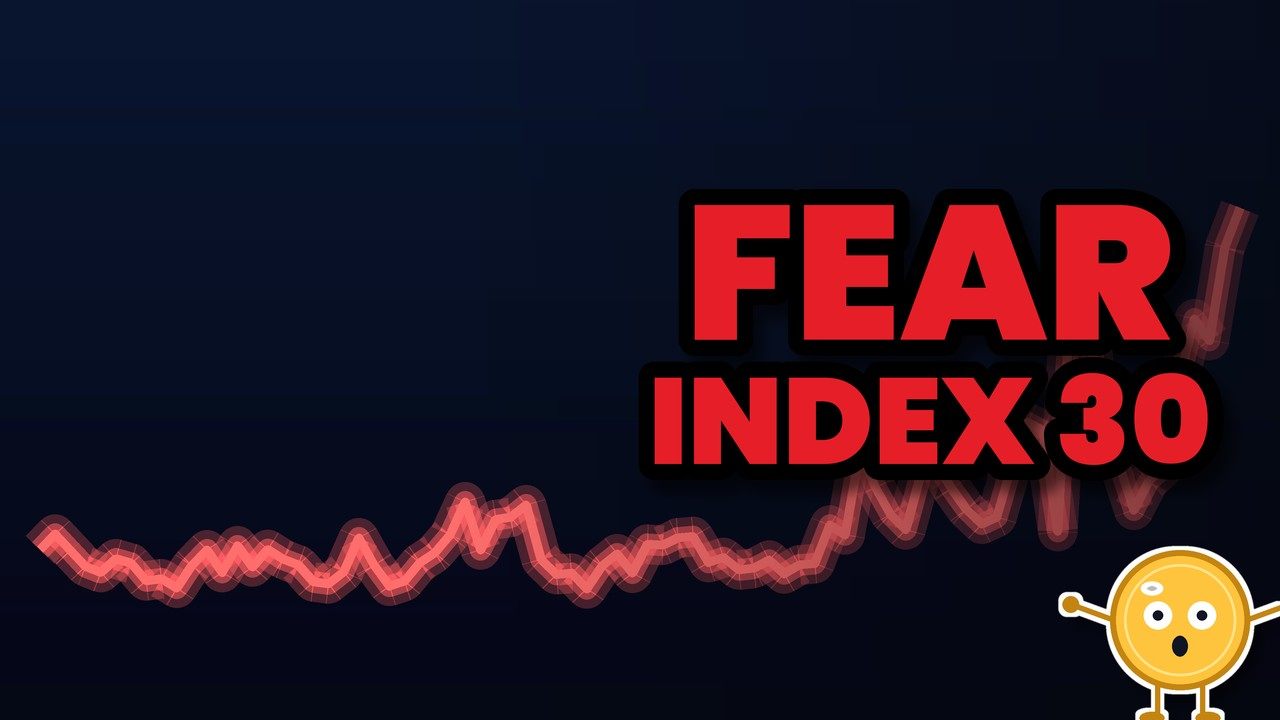
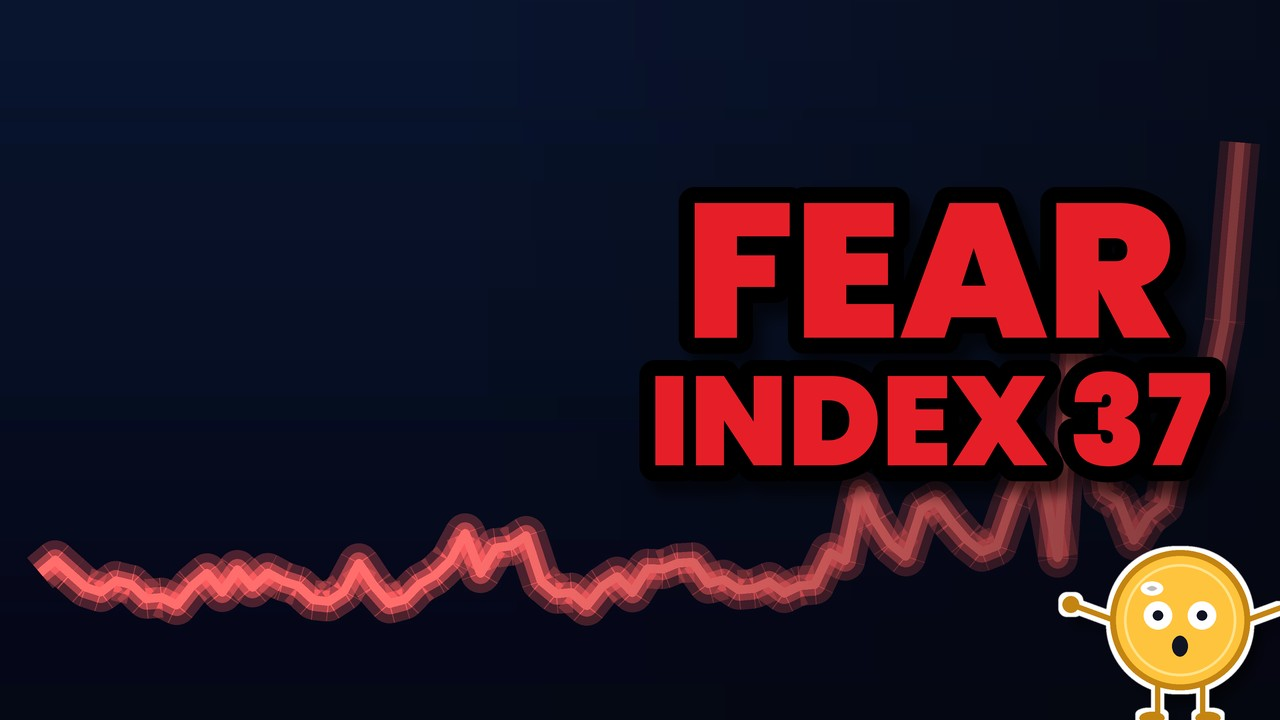
ep11: final close numbers (VIX 37.37, S&P in correction)
Claude-Session: https://claude.ai/code/session_01KPBsdzhy6yaFbGMrWeQjjn

diff --git a/channel/ep11_vix.py b/channel/ep11_vix.py
@@ -126,7 +126,7 @@ INFL = (CPI.iloc[-1] / CPI.iloc[-13] - 1) * 100
 SRC = 'Yahoo Finance: Cboe Volatility Index (^VIX) and S&P 500 daily closes'
 TICK = (f'VIX  {V_NOW:.2f}  {(V_NOW / V_PREV - 1) * 100:+.1f}%     S&P 500  {SP_NOW:,.2f}  {SP_DAY:+.2f}%     '
         f'NASDAQ  {NDQ.iloc[-1]:,.2f}     10-YR YIELD  {Y_NOW:.2f}%     CPI  {INFL:.1f}%     ')
-DOUBLED = 'doubled' if V_X >= 1.95 else 'nearly doubled'
+DOUBLED = 'more than doubled' if V_X >= 2.2 else ('doubled' if V_X >= 1.95 else 'nearly doubled')
 
 
 def ticker(draw):
@@ -465,9 +465,10 @@ corr_line = (f"It's now {abs(SP_DD):.1f} percent below its record, which officia
              f"calls a correction.")
 SCENES = [
     dict(draw=s_hook, chapter='Intro: the fear index', lead=0.15, gap=0.3, lines=[
-        f"!Wall Street's fear index just {DOUBLED}.",
+        (f"!Wall Street's fear index just jumped to {V_NOW:.0f}, and the S&P 500 just fell into a correction."
+         if IN_CORR else f"!Wall Street's fear index just {DOUBLED}."),
         f"The VIX was at {V_AT_REC:.0f} on October 6, the day the S&P 500 hit its record. Today it closed at "
-        f"{V_NOW:.1f}.",
+        f"{V_NOW:.1f}. It has {DOUBLED}.",
         f"So what happens after fear spikes like this? Here's the short answer. Since 1990, the VIX has jumped above "
         f"30 for the first time in months {len(PAST)} times. A year later, the S&P 500 was higher {UP12} times out of "
         f"{len(F12)}.",

diff --git a/channel/kits/ep11_kit.py b/channel/kits/ep11_kit.py
@@ -25,9 +25,10 @@ desc = (
     "results.\nOriginal script and animation. Narrated with an AI voice.")
 kit = {
     'video': 'channel/out/ep11_vix.mp4',
-    'title': f"Wall Street's Fear Index Just {e.DOUBLED.title()}. What Happens Next?",
+    'title': (f"Fear Index Hits {e.V_NOW:.0f} as Stocks Enter a Correction. What Happens Next?" if e.IN_CORR
+              else f"Wall Street's Fear Index Just {e.DOUBLED.title()}. What Happens Next?"),
     'description': desc,
-    'tags': ['vix', 'vix explained', 'fear index', 'what is the vix', 'stock market volatility', 'stock market today',
+    'tags': ['stock market correction', 'vix', 'vix explained', 'fear index', 'what is the vix', 'stock market volatility', 'stock market today',
              'stock market crash', 'stock market correction', 's&p 500', 'cboe volatility index', 'stock market 2026',
              'is a crash coming', 'coin theory', 'money explained', 'personal finance'],
     'categoryId': 27,

diff --git a/channel/thumbs_v3.py b/channel/thumbs_v3.py
@@ -85,7 +85,7 @@ SPEC = {
     'ep05_jobs': (0, '60,000\nBUYOUTS', 'LAYOFFS?', 'IS YOUR\nJOB SAFE?', YEL, None, 1),
     'ep10_stocks': (0, '6 DAYS\nDOWN', 'CRASH\nCOMING?', 'NASDAQ\n-13%', RED, None, 1,
                     ('thumbsrc/ep10_red.jpg', 'thumbsrc/ep10_red2.jpg', 'thumbsrc/ep10_red.jpg')),
-    'ep11_vix': (0, 'FEAR\nINDEX 30', 'WHAT\nNEXT?', 'FEAR\nDOUBLED', RED, None, 1,
+    'ep11_vix': (0, 'FEAR\nINDEX 37', 'WHAT\nNEXT?', 'CORRECTION\n-11.6%', RED, None, 1,
                  ('thumbsrc/ep11_vix.jpg', 'thumbsrc/ep11_vix.jpg', 'thumbsrc/ep11_vix.jpg')),
 }
 
